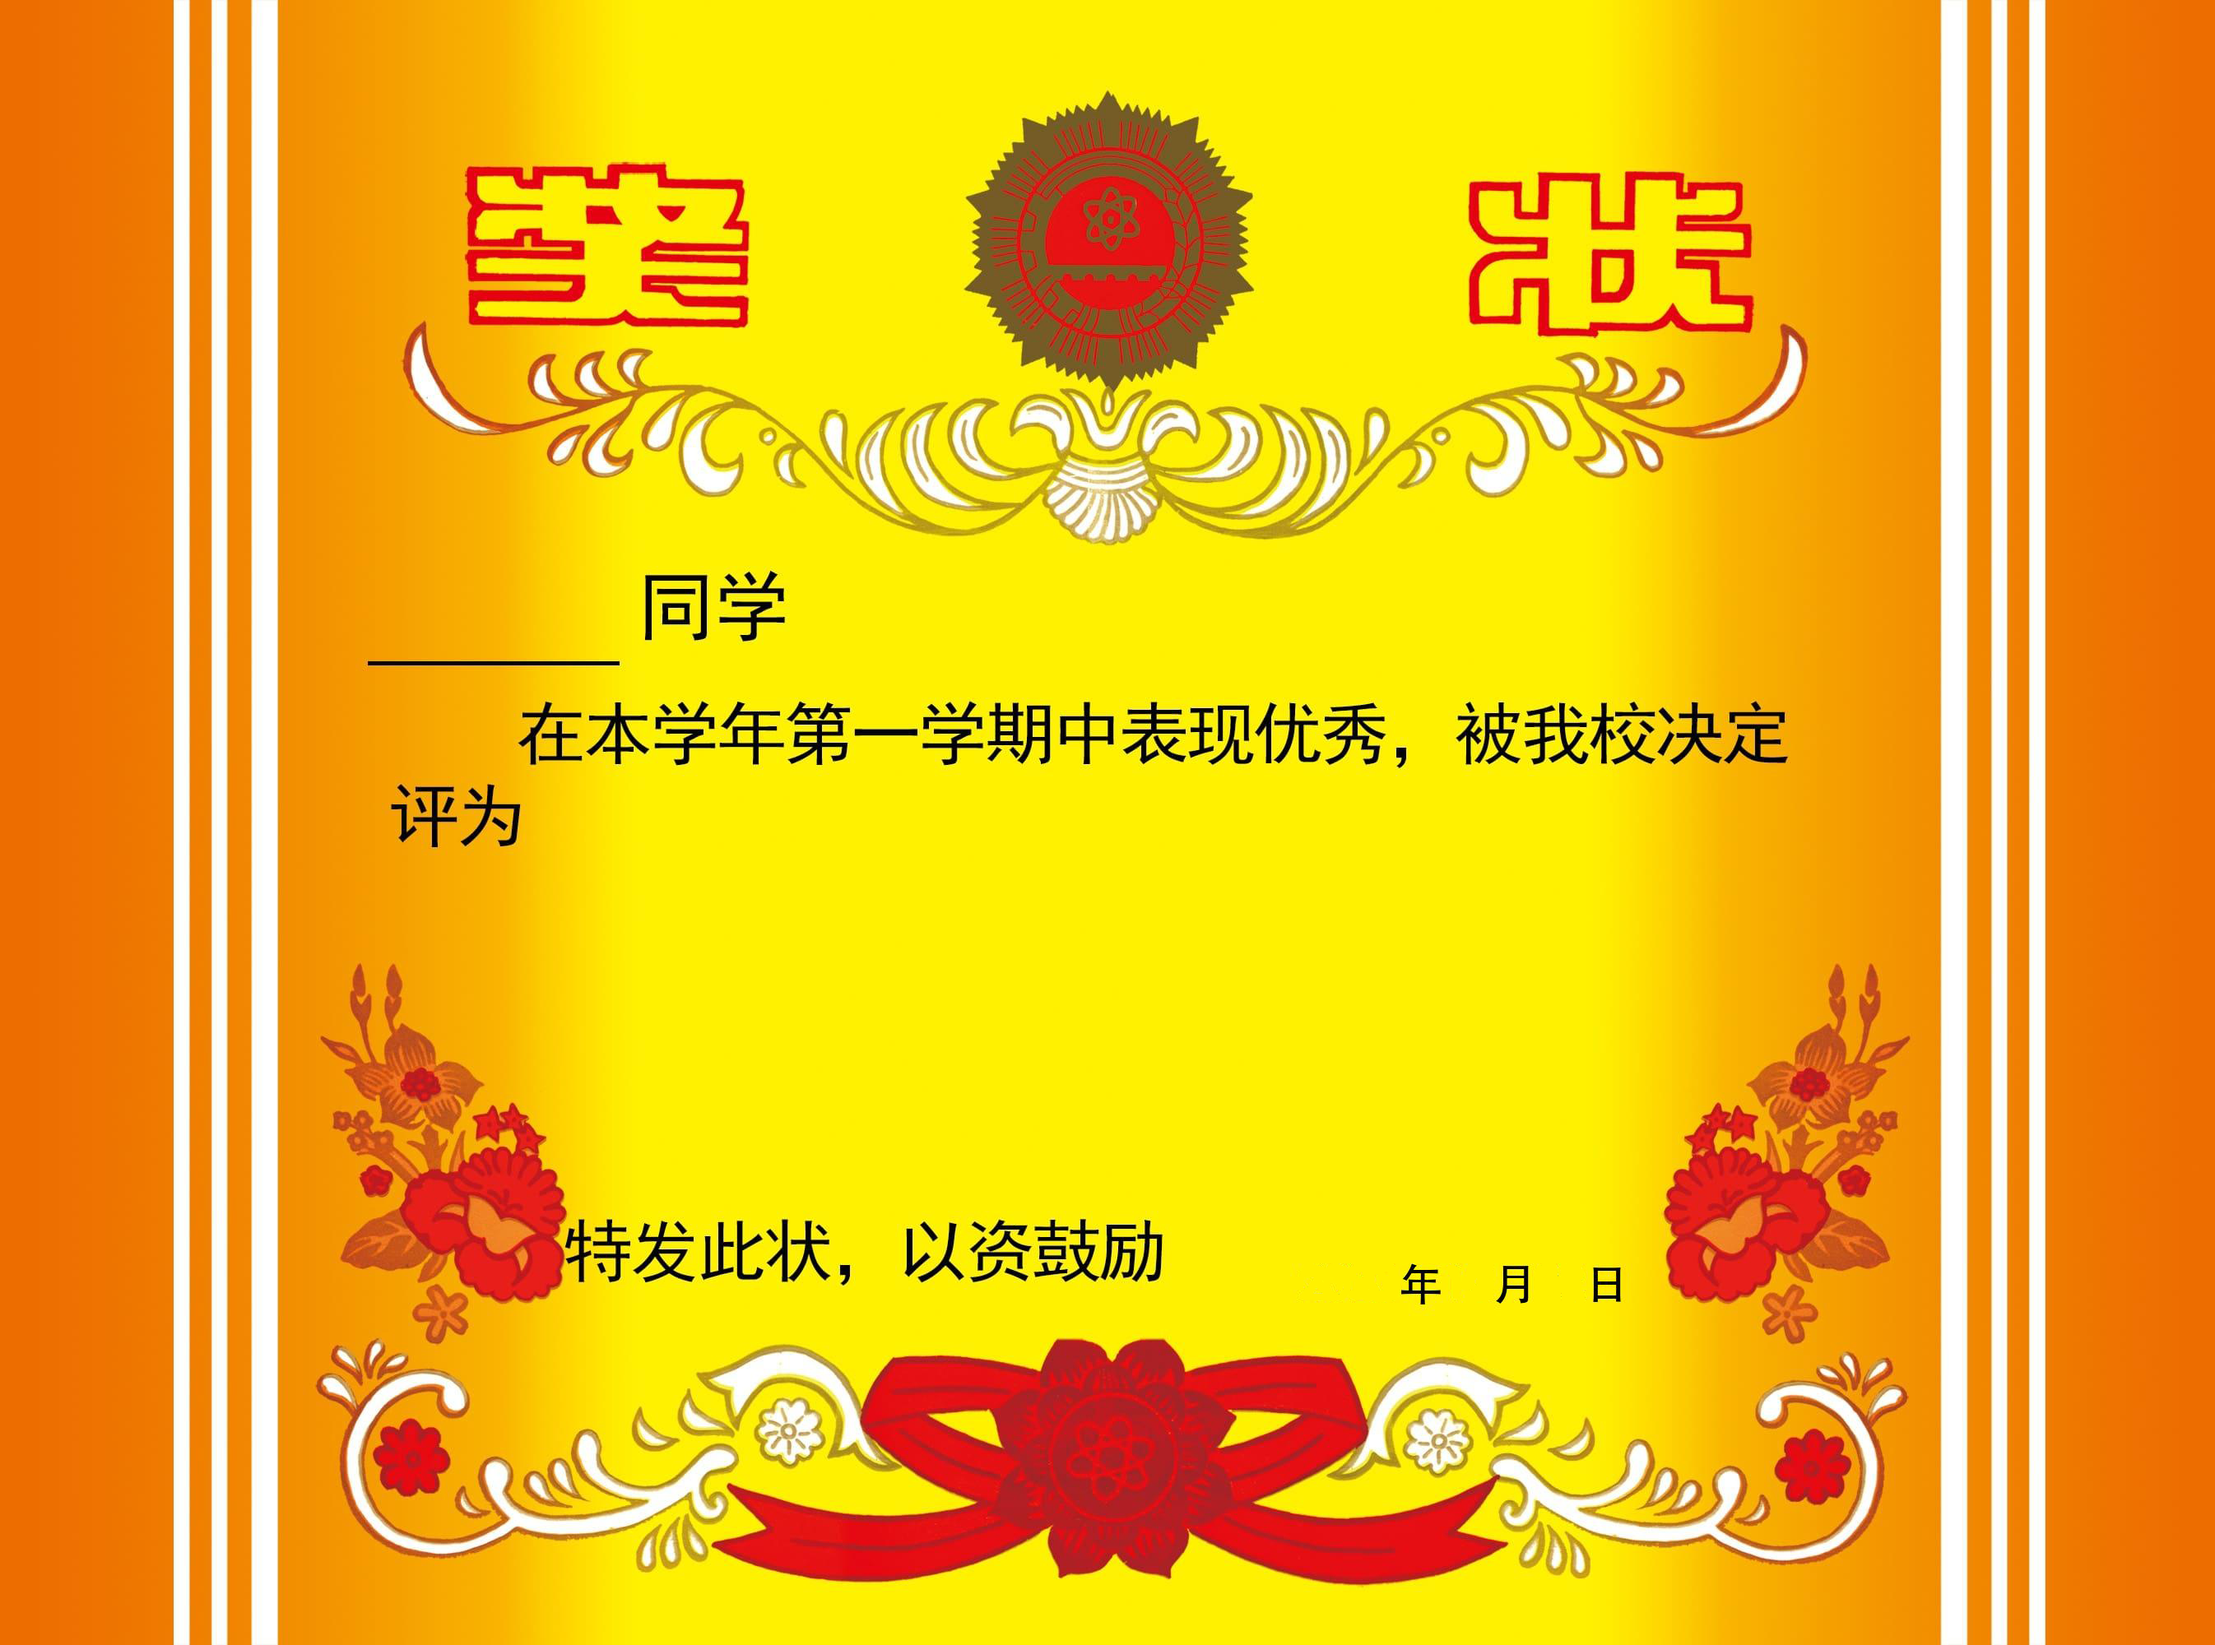
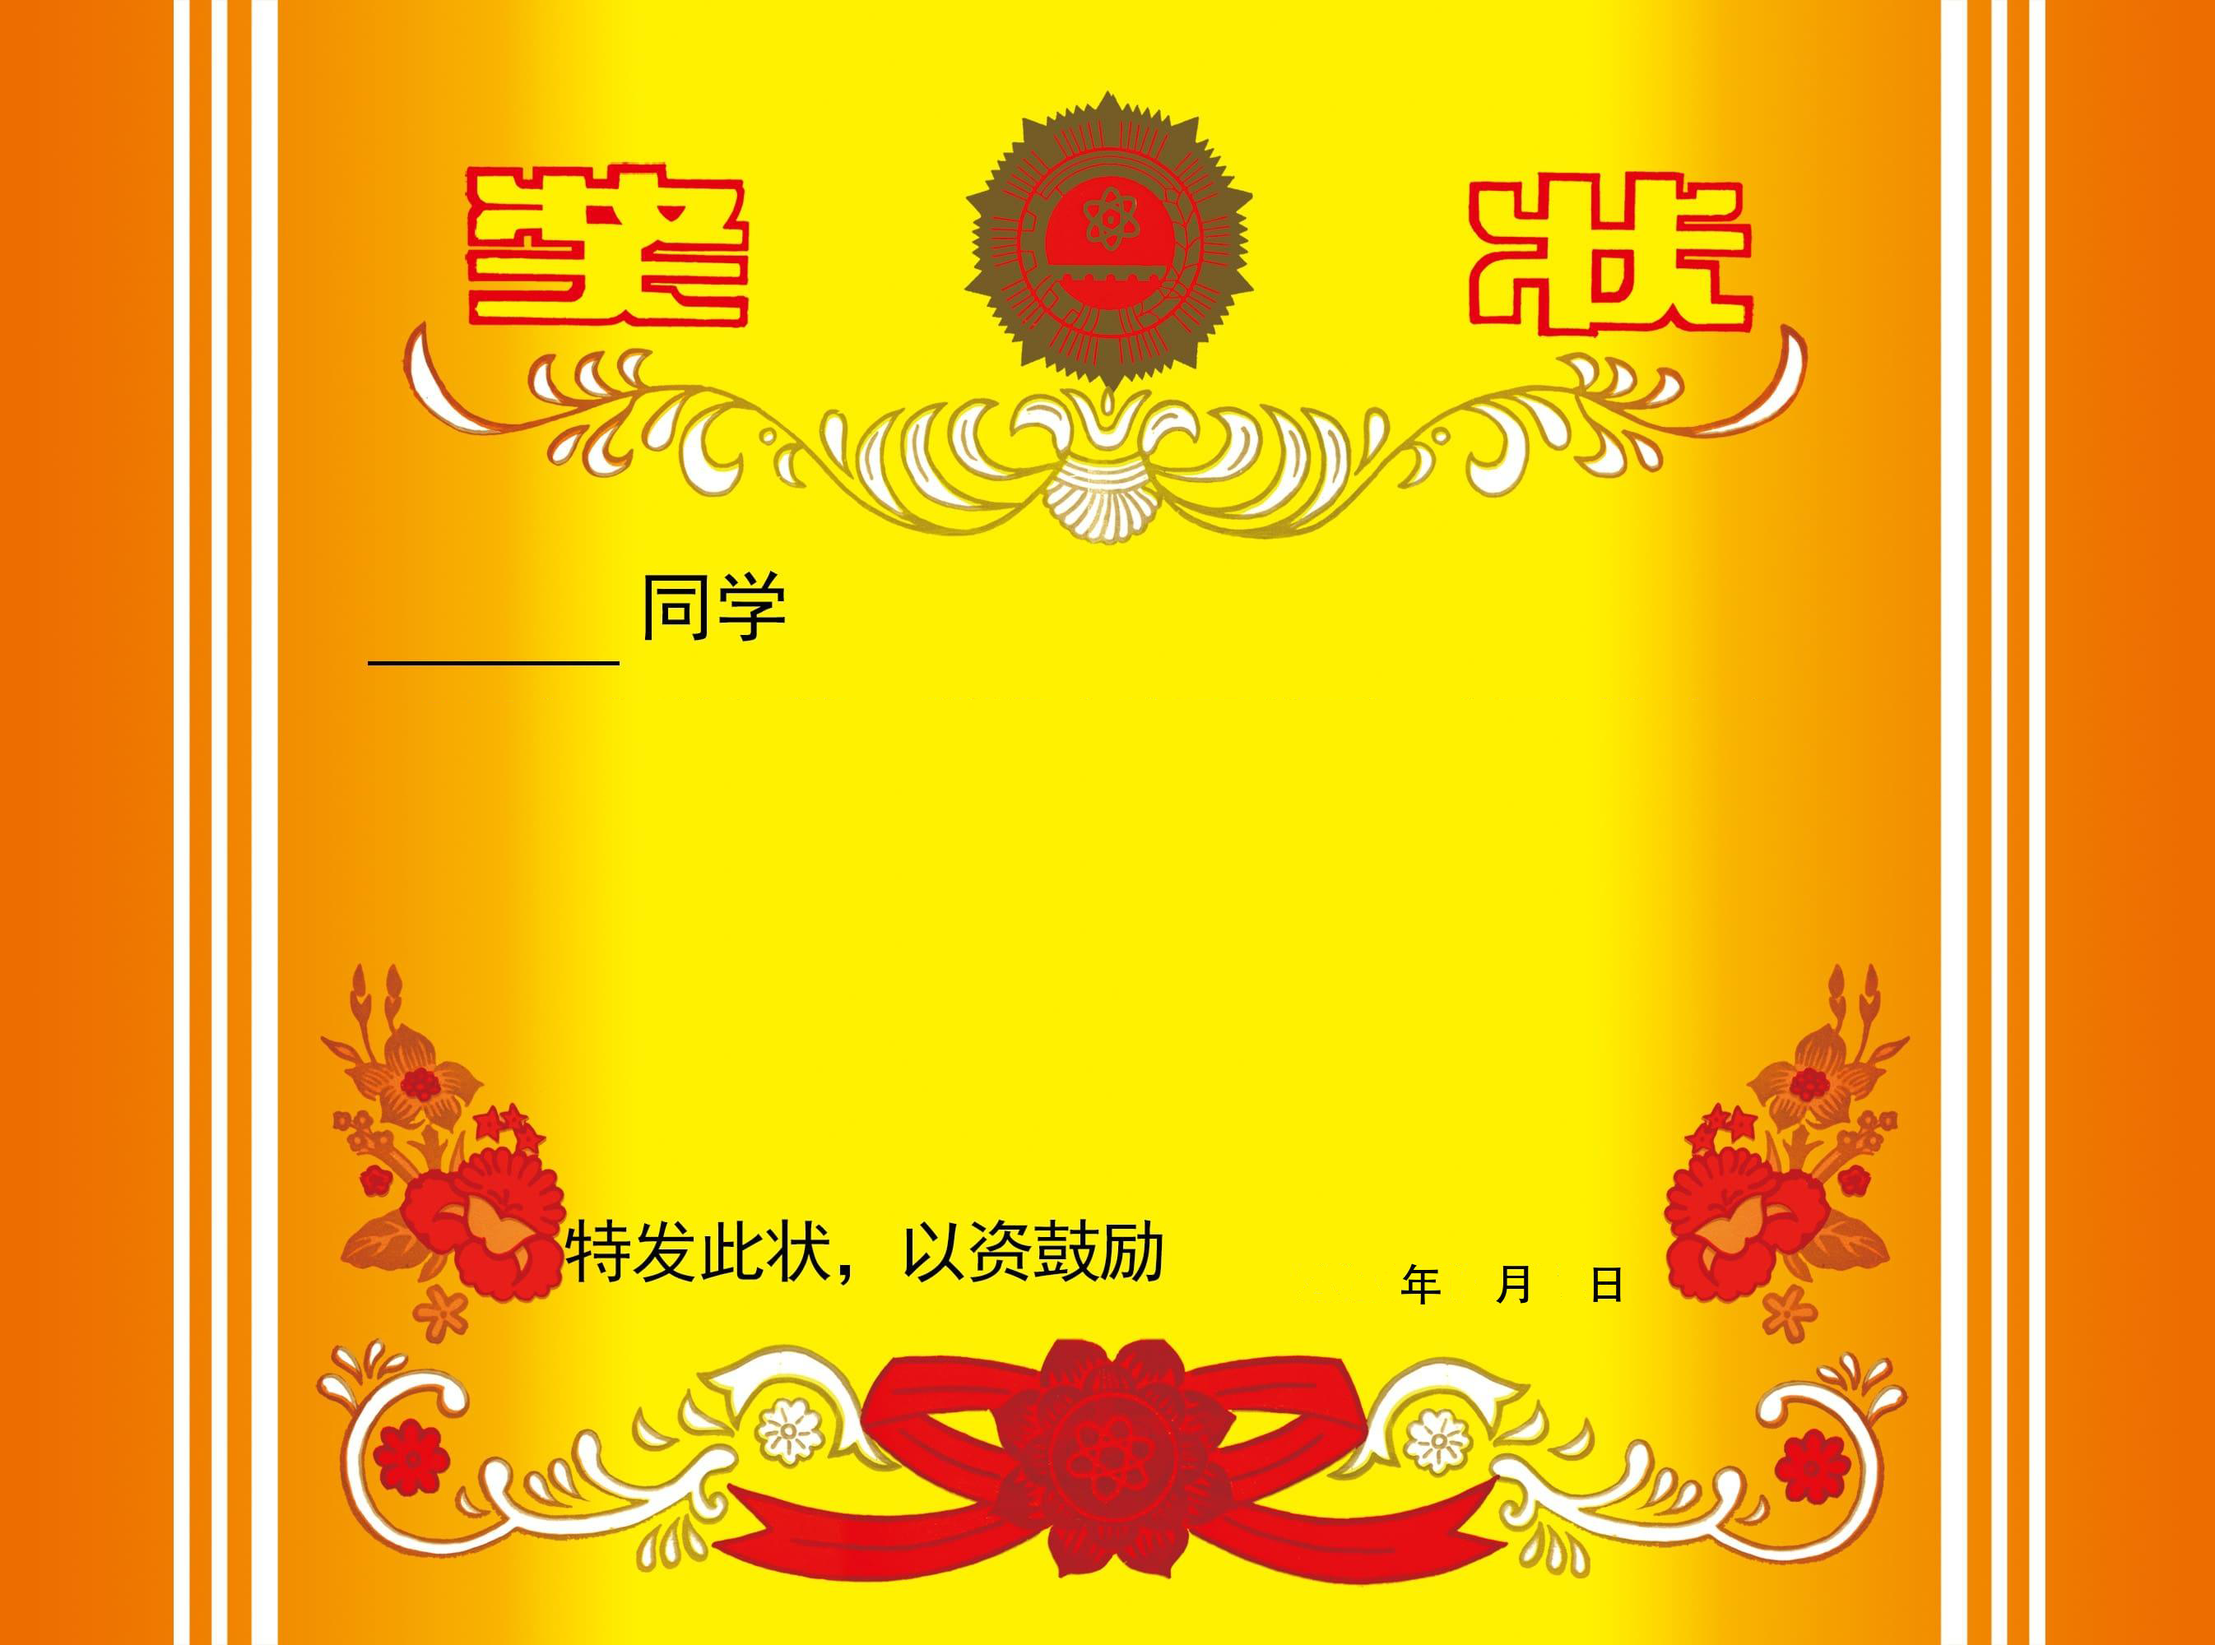
feat: extract text from tmpl

Changed region(s): [[0.1872, 0.403, 0.6241, 0.527], [0.6553, 0.403, 0.8113, 0.465]]

diff --git a/meme_generator/memes/certificate/__init__.py b/meme_generator/memes/certificate/__init__.py
@@ -58,6 +58,20 @@ def certificate(images, texts: List[str], args: Model):
         )
     except ValueError:
         raise TextOverLength(texts[2])
+    try:
+        frame.draw_text(
+            (450, 850, 2270, 1080),
+            texts[3]
+            if len(texts) >= 4
+            else "　　在本学年第一学期中表现优秀，被我校决定评为",
+            allow_wrap=True,
+            max_fontsize=80,
+            min_fontsize=40,
+            halign="left",
+            valign="top",
+        )
+    except ValueError:
+        raise TextOverLength(texts[3])
 
     frame.draw_text(
         (1565, 1527),
@@ -85,8 +99,12 @@ add_meme(
     "certificate",
     certificate,
     min_texts=3,
-    max_texts=3,
-    default_texts=["小王", "优秀学生", "一年一班"],
+    max_texts=4,
+    default_texts=[
+        "小王",
+        "优秀学生",
+        "一年一班",
+    ],
     args_type=MemeArgsType(parser, Model),
     keywords=["奖状", "证书"],
 )
